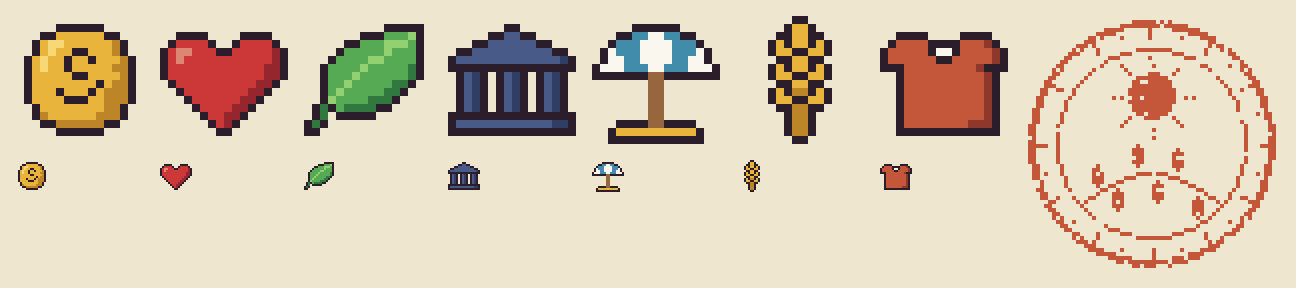
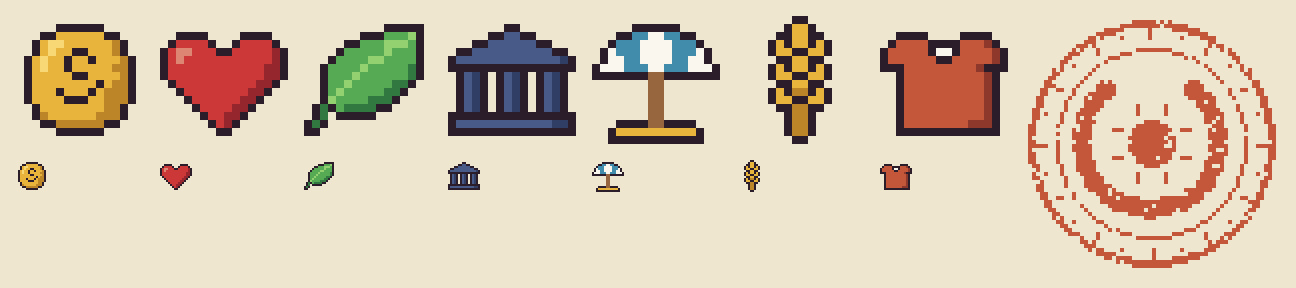
Add character opinions, sound, a clearer seal and the playtest guide
The report now ends with a line from each of the six characters, chosen by
the number that character cares about. Five sound effects come from the
browser's synthesizer; the mute button is remembered. The seal is a sun in
an olive wreath, the fired Minister is twice the size and the sheep has
wool. The last three true-story sources are filled in.

Changed region(s): [[0.8025, 0.2188, 0.9568, 0.7812], [0.8642, 0.9062, 0.9259, 0.9375]]

diff --git a/game.js b/game.js
@@ -1,7 +1,8 @@
 // Ministry of Sustainability: the screen. The rules live in engine.js, the content in events.json.
 
 import { TURNS, METERS, SECTORS, CRISIS_BELOW, CRISIS_COST, newTerm, choose, endTurn, canAfford,
-  eventText, portraitFor, grade, overallGrade, reportLines, termTitle } from "./engine.js";
+  eventText, portraitFor, grade, overallGrade, reportLines, opinions, termTitle } from "./engine.js";
+import { play, isMuted, toggleMute } from "./sound.js";
 
 const SEASONS = ["Spring", "Summer", "Autumn", "Winter"];
 const LABELS = { ...METERS, ...SECTORS };
@@ -52,7 +53,10 @@ function header() {
         <h1>Ministry of Sustainability</h1>
         <p class="when">${esc(country)} · Year ${year}, ${SEASONS[(state.turn - 1) % 4]}</p>
       </div>
-      <button class="help" data-help aria-label="How to play">?</button>
+      <span class="top__buttons">
+        <button class="help ${isMuted() ? "is-off" : ""}" data-mute aria-label="Sound" aria-pressed="${!isMuted()}">♪</button>
+        <button class="help" data-help aria-label="How to play">?</button>
+      </span>
       <div class="seasons" role="img" aria-label="Season ${state.turn} of ${TURNS}">${seasons}</div>
     </header>
     <section class="meters" aria-label="Meters">${Object.keys(METERS).map(meter).join("")}</section>
@@ -131,6 +135,14 @@ function reportCard() {
       <p class="overall">Overall grade <span class="grade grade--big">${overallGrade(state)}</span></p>
       ${sectors}
       ${looksGood}
+      <section class="sector">
+        <h3>What they say</h3>
+        ${opinions(state).map(({ who, text }) => `
+        <figure class="quote">
+          <img src="assets/portraits/${portraitFor(state, who)}.png" width="64" height="64" alt="">
+          <figcaption><b>${personName(who)}</b>${esc(text)}</figcaption>
+        </figure>`).join("")}
+      </section>
       <button class="button" data-restart>Run for another term</button>
       <img class="stamp" src="assets/ui/seal.png" width="64" height="64" alt="">
     </article>`;
@@ -188,9 +200,14 @@ function render() {
 app.addEventListener("click", (e) => {
   const button = e.target.closest("button");
   if (!button || button.disabled) return;
-  if (button.dataset.option) choose(state, state.event.options[Number(button.dataset.option)]);
-  else if ("next" in button.dataset) endTurn(state);
-  else if ("restart" in button.dataset) state = newTerm(data);
+  if (button.dataset.option) {
+    choose(state, state.event.options[Number(button.dataset.option)]);
+    play("stamp");
+  } else if ("next" in button.dataset) {
+    endTurn(state);
+    play(!state.ending ? "page" : state.ending.lost ? "lose" : "win");
+  } else if ("restart" in button.dataset) state = newTerm(data);
+  else if ("mute" in button.dataset) toggleMute();
   else if ("help" in button.dataset) help = true;
   else if ("closeHelp" in button.dataset) help = false;
   else return;

diff --git a/sound.js b/sound.js
@@ -1,0 +1,43 @@
+// Ministry of Sustainability: sound. Every effect is a few notes from the browser's own
+// synthesizer, so there are no audio files to load.
+
+const KEY = "ministry-muted";
+let context;   // made on the first sound, because browsers only allow audio after a click
+let muted = false;
+try { muted = localStorage.getItem(KEY) === "1"; } catch { /* private window: start with sound on */ }
+
+// Each effect is a list of notes: [frequency in Hz, start in seconds, length in seconds, wave shape].
+const EFFECTS = {
+  stamp: [[110, 0, 0.09, "square"], [70, 0.03, 0.14, "triangle"]],       // a decision is made
+  page: [[520, 0, 0.04, "square"], [660, 0.05, 0.05, "square"]],         // next season
+  win: [[392, 0, 0.12, "square"], [494, 0.12, 0.12, "square"], [587, 0.24, 0.12, "square"], [784, 0.36, 0.3, "square"]],
+  lose: [[330, 0, 0.18, "square"], [262, 0.18, 0.18, "square"], [196, 0.36, 0.45, "sawtooth"]],
+};
+
+export function play(name) {
+  if (muted) return;
+  try {
+    context ??= new AudioContext();
+    if (context.state === "suspended") context.resume();
+    const now = context.currentTime;
+    for (const [frequency, start, length, type] of EFFECTS[name]) {
+      const tone = context.createOscillator();
+      const volume = context.createGain();
+      tone.type = type;
+      tone.frequency.value = frequency;
+      volume.gain.setValueAtTime(0.08, now + start);
+      volume.gain.exponentialRampToValueAtTime(0.001, now + start + length);
+      tone.connect(volume).connect(context.destination);
+      tone.start(now + start);
+      tone.stop(now + start + length);
+    }
+  } catch { /* no audio on this device: the game is fine without it */ }
+}
+
+export const isMuted = () => muted;
+
+export function toggleMute() {
+  muted = !muted;
+  try { localStorage.setItem(KEY, muted ? "1" : "0"); } catch { /* the choice just will not be remembered */ }
+  if (!muted) play("page");
+}

diff --git a/style.css b/style.css
@@ -52,12 +52,14 @@ h1, h2, h3, .memo, .meter__name, .button, .grade, kbd, figcaption, label { font-
 .top h1 { margin: 0; font-size: 23px; line-height: 1; letter-spacing: .02em; }
 .when { margin: 0; color: var(--muted); font-size: 19px; line-height: 1.1; overflow-wrap: anywhere; }
 .help {
-  width: 44px; height: 44px;
+  width: 40px; height: 44px;
   background: var(--card); color: var(--ink);
   border: 2px solid var(--ink); border-radius: 0; box-shadow: 3px 3px 0 var(--ink);
   font: 26px var(--head); cursor: pointer; touch-action: manipulation;
 }
 .help:active { transform: translate(3px, 3px); box-shadow: none; }
+.help.is-off { color: var(--rule); text-decoration: line-through; }
+.top__buttons { display: flex; gap: 8px; }
 
 /* sixteen seasons, grouped in years */
 .seasons { grid-column: 1 / -1; display: grid; grid-template-columns: repeat(16, 1fr); gap: 2px; margin-top: 8px; }
@@ -183,6 +185,10 @@ h2 { margin: 0; font-size: 32px; line-height: .95; text-wrap: balance; overflow-
 .sector h3 { display: flex; align-items: center; margin: 0 0 6px; font-size: 24px; line-height: 1; }
 .sector h3 .grade { margin-left: auto; }
 .sector p { margin: 0 0 6px; overflow-wrap: anywhere; }
+.quote { display: flex; gap: 10px; align-items: flex-start; margin: 0 0 10px; }
+.quote img { flex: none; width: 48px; height: 48px; background: var(--paper); border: 2px solid var(--ink); }
+.quote figcaption { font-family: var(--body); line-height: 1.15; }
+.quote b { display: block; font: 16px/1.2 var(--head); font-weight: 400; color: var(--muted); }
 
 /* ---- first screen and rules ---- */
 .card--intro { padding-top: 16px; text-align: center; }

diff --git a/engine.js b/engine.js
@@ -166,6 +166,12 @@ export function reportLines(term, sector) {
   return (term.data.report_lines ?? []).filter((l) => l.sector === sector && term.flags.has(l.flag)).map((l) => l.text);
 }
 
+/** What each recurring character says at the end: each one judges a single number ("opinions"). */
+export function opinions(term) {
+  return (term.data.opinions ?? []).map(({ who, meter, lines }) =>
+    ({ who, text: lines.find(([least]) => term.values[meter] >= least)[1] }));
+}
+
 /** Only a term that was not lost earns a title. */
 export function termTitle(term) {
   if (!term.ending || term.ending.lost) return null;

diff --git a/tools/scenes.py b/tools/scenes.py
@@ -11,16 +11,17 @@ SCENES = ASSETS / "scenes"
 W, H = 160, 80
 
 
-def person(c, x, y, coat="navy", facing=1):
-    """A small figure about 24 pixels tall, feet at (x, y)."""
-    c.rect((x - 3, y - 9, x - 1, y - 1), "char")          # legs
-    c.rect((x + 1, y - 9, x + 3, y - 1), "char")
-    c.rect((x - 4, y - 1, x - 1, y), "line"); c.rect((x + 1, y - 1, x + 4, y), "line")
-    c.rect((x - 4, y - 18, x + 4, y - 9), coat)            # coat
-    c.col(x + 4 * facing, y - 18, y - 9, "navy_d")
-    c.ell((x - 3, y - 25, x + 3, y - 19), "skin")          # head
-    c.row(y - 25, x - 2, x + 2, "hair_d"); c.row(y - 24, x - 3, x + 3, "hair_d")
-    c.px(x + 1 * facing, y - 22, "line")
+def person(c, x, y, k=2, coat="navy"):
+    """A figure walking right, feet at (x, y), drawn k times larger than its 25-pixel sketch."""
+    def box(x0, y0, x1, y1, colour):
+        c.rect((x + x0 * k, y + y0 * k, x + x1 * k + k - 1, y + y1 * k + k - 1), colour)
+    box(-3, -9, -1, -1, "char"); box(1, -9, 3, -1, "char")          # legs
+    box(-4, -1, -1, -1, "line"); box(1, -1, 4, -1, "line")          # shoes
+    box(-4, -18, 4, -10, coat); box(4, -18, 4, -10, "navy_d")       # coat
+    box(-1, -18, 0, -15, "white"); box(-1, -16, -1, -12, "red")     # shirt and tie
+    box(-3, -25, 3, -19, "skin"); box(3, -24, 3, -20, "skin2")      # head
+    box(-3, -26, 3, -25, "hair_d"); box(-4, -25, -3, -22, "hair_d") # hair
+    box(1, -23, 1, -23, "line"); box(1, -21, 2, -21, "skin3")       # eye, and a mouth that has given up
 
 
 # ---- Approval hits 0: fired ---------------------------------------------------------
@@ -41,11 +42,12 @@ def fired():
     c.rect((30, 60, 61, 63), "white"); c.rect((26, 63, 65, 66), "cream")  # steps
     c.col(92, 6, 62, "line")
     # the former Minister, with a box of belongings
-    person(c, 118, 70)
-    c.rect((122, 52, 134, 60), "wood"); c.rect((122, 52, 134, 53), "wood_d")
-    c.rect((121, 55, 123, 57), "skin"); c.px(128, 56, "wood_d")
-    c.poly([(126, 52), (126, 46), (129, 43), (130, 47), (129, 52)], "green")  # the office plant
-    c.rect((131, 48, 133, 52), "white")
+    person(c, 116, 76)
+    c.rect((126, 44, 146, 58), "wood"); c.rect((126, 44, 146, 46), "wood_d"); c.rect((135, 50, 137, 52), "wood_d")
+    c.rect((123, 48, 127, 52), "skin")                                          # the hand that carries it
+    c.poly([(132, 44), (131, 34), (136, 28), (139, 35), (137, 44)], "green")    # the office plant
+    c.line([(135, 44), (135, 32)], "green_d")
+    c.rect((140, 38, 144, 44), "white"); c.px(142, 40, "hair_d")                # one framed certificate
     # papers on the wind
     for x, y in ((70, 40), (84, 50), (100, 34), (146, 30)):
         c.rect((x, y, x + 4, y + 3), "white"); c.px(x + 1, y + 1, "hair_d"); c.px(x + 3, y + 2, "hair_d")
@@ -191,6 +193,8 @@ def cover():
     for cx, cy in ((200, 150), (214, 134), (236, 126), (262, 124), (284, 134), (298, 152), (300, 174), (290, 192), (196, 174)):
         c.ell((cx - 9, cy - 9, cx + 9, cy + 9), "white")
     c.recolor("white", "cream", lambda x, y: x >= 180 and y >= 120 and (x + y >= 474 or y >= 192))
+    for cx, cy in ((262, 150), (280, 162), (268, 176), (286, 182), (252, 134), (274, 138), (198, 168), (290, 148), (258, 192)):
+        c.d.arc((cx - 4, cy - 4, cx + 4, cy + 4), 200, 20, fill=C["cream_d"])   # curls of wool
     c.ell((206, 140, 250, 192), "char"); c.ell((210, 144, 246, 188), "char_l")       # face
     c.poly([(204, 150), (190, 144), (196, 160)], "char"); c.poly([(252, 150), (266, 144), (260, 160)], "char")  # ears
     for cx, cy in ((216, 138), (228, 132), (240, 138)):                             # woolly fringe

diff --git a/tools/ui_art.py b/tools/ui_art.py
@@ -158,7 +158,7 @@ def icon(name):
 
 
 def seal():
-    """A round rubber stamp: sun over an olive branch, in one worn colour."""
+    """A round rubber stamp: a sun inside an olive wreath, in one worn colour."""
     c = Canvas(64, 64)
     ink = "scarf"
     for box in ((1, 1, 62, 62), (2, 2, 61, 61), (8, 8, 55, 55)):
@@ -169,21 +169,16 @@ def seal():
         for r in (26.5, 27.5, 28.5) if i % 2 == 0 else (27.5,):
             c.px(round(31.5 + r * math.cos(a)), round(31.5 + r * math.sin(a)), ink)
     # sun
-    c.d.ellipse((26, 14, 37, 25), fill=C[ink])
+    c.d.ellipse((26, 26, 37, 37), fill=C[ink])
     for i in range(8):
-        a = math.radians(i * 45)
+        a = math.radians(i * 45 + 22.5)
         for r in (8, 9, 10):
-            c.px(round(31.5 + r * math.cos(a)), round(19.5 + r * math.sin(a)), ink)
-    # olive branch: a curved stem with leaves alternating above and below it
-    stem = [(15 + i, round(46 - 7 * math.sin(i / 33 * math.pi))) for i in range(34)]
-    for x, y in stem:
-        c.px(x, y, ink)
-    for n, i in enumerate(range(3, 33, 5)):
-        x, y = stem[i]
-        if n % 2 == 0:
-            c.d.ellipse((x - 1, y - 7, x + 1, y - 2), fill=C[ink])
-        else:
-            c.d.ellipse((x - 1, y + 2, x + 1, y + 7), fill=C[ink])
+            c.px(round(31.5 + r * math.cos(a)), round(31.5 + r * math.sin(a)), ink)
+    # olive wreath: chunky leaves around the inner ring, open at the top
+    for deg in range(-50, 231, 14):
+        a = math.radians(deg)
+        x, y = 31.5 + 17 * math.cos(a), 31.5 + 17 * math.sin(a)
+        c.d.ellipse((x - 2, y - 2, x + 2, y + 2), fill=C[ink])
     # wear: a rubber stamp never prints every pixel
     rng = random.Random(7)
     for y in range(64):

diff --git a/README.md b/README.md
@@ -25,7 +25,7 @@ Then open http://localhost:8123.
 - `events.json` holds every event, option, effect and report line. Adding an event needs no code.
 - `engine.js` is the rules: meters, event selection, flags, scheduled follow-ups, sector crises, the
   final report and its titles. It has no screen attached.
-- `game.js` draws a term in the browser.
+- `game.js` draws a term in the browser; `sound.js` makes the sound effects without any audio files.
 - `tools/balance.mjs` plays thousands of terms with simple strategies and reports how they end
   (`node tools/balance.mjs`). It is how the numbers were tuned.
 - `TASARIM.md` is the design document (rules, event list, build order).
@@ -39,7 +39,7 @@ small "True story" stamp gives only a year and what happened. The sources are he
 
 | Event | Note in the game | Source |
 |---|---|---|
-| Special Delivery | 2024: farmers dumped manure outside government buildings in several countries. | To be added |
+| Special Delivery | 2024: farmers dumped manure outside government buildings in several countries. | [Al Jazeera, 2024](https://www.aljazeera.com/gallery/2024/3/27/angry-farmers-block-brussels-to-protest-eu-policies-cheap-ukraine-imports) |
 | The Olive Plague | 2013: a bacterium began killing one region's olive trees. Millions are gone. | [NPR, 2020](https://www.npr.org/2020/05/03/849551027/southern-europe-could-lose-22-billion-fighting-deadly-olive-tree-disease) |
 | Where Did the Bees Go? | 2018: three pesticides were banned from outdoor use across a continent to protect bees. | [Euronews, 2018](https://www.euronews.com/2018/04/27/eu-nations-back-ban-on-insecticides-to-protect-bees) |
 | The Hazelnut Empire | today: one country grows most of the world's hazelnuts, and one company is its biggest buyer. | [FreshPlaza](https://www.freshplaza.com/europe/article/9792232/turkish-hazelnut-production-drops-sending-prices-soaring/), [T-Vine](https://t-vine.com/ferrero-single-biggest-buyer-of-turkish-hazelnuts-while-germany-biggest-market-in-2017) |
@@ -52,8 +52,8 @@ small "True story" stamp gives only a year and what happened. The sources are he
 | Umbrella Wars | today: in one country, beach concessions were renewed for decades without ever being put up for competition. | [Euronews, 2023](https://www.euronews.com/my-europe/2023/04/20/italian-beach-space-must-be-open-to-competition-ecj-ruling) |
 | Pay to Enter | 2024: a city began charging day visitors a fee to enter. | [NPR, 2024](https://www.npr.org/2024/04/25/1247162570/venice-entry-fee-day-trippers-tourists) |
 | All Inclusive, Nothing Local (towel option) | 1986: the word "greenwashing" was invented to describe hotel towel cards. | [NRDC](https://www.nrdc.org/stories/what-greenwashing) |
-| The Documentary | today: campaigners ask tourists to boycott a group of islands over a traditional hunt. | To be added |
-| Wool-Free Wool | today: washing synthetic clothes is one of the main sources of microplastics in the sea. | To be added |
+| The Documentary | today: campaigners ask tourists to boycott a group of islands over a traditional hunt. | [The Inertia](https://www.theinertia.com/environment/cruise-lines-protest-faroe-islands-whale-hunt/) |
+| Wool-Free Wool | today: washing synthetic clothes is one of the main sources of microplastics in the sea. | [IUCN, 2017](https://iucn.org/news/secretariat/201702/invisible-plastic-particles-textiles-and-tyres-major-source-ocean-pollution-–-iucn-study) |
 | The Green Gala | 2021: a study found that six in ten green claims by big fashion brands were misleading. | [Eco-Business](https://www.eco-business.com/zh-hans/news/almost-60-per-cent-of-sustainability-claims-by-fashion-giants-are-greenwash/) |
 | The River Is Blue Today | today: near some textile towns, the river changes colour with whatever dye was used that week. | [The Daily Star](https://www.thedailystar.net/backpage/news/louhajang-river-palette-pollution-1738819) |
 | Mount Textile | 2021: a dump of unsold clothes in a desert was reported to be growing by 39,000 tonnes a year. | [Al Jazeera, 2021](https://www.aljazeera.com/gallery/2021/11/8/chiles-desert-dumping-ground-for-fast-fashion-leftovers) |

diff --git a/TEST_REHBERI.md b/TEST_REHBERI.md
@@ -1,0 +1,62 @@
+# Oyun Testi Rehberi
+
+Amaç: oyunun gerçek insanlarla nasıl çalıştığını görmek. Simülasyon sayıların dengeli olduğunu
+söylüyor; eğlenceli ve anlaşılır olup olmadığını yalnızca oyuncular söyleyebilir.
+
+Hedef: **5–10 kişi**, kişi başı yaklaşık **15 dakika**. İngilizce okuyabilen herkes olur; oyun
+oynamayan birkaç kişi de olsun.
+
+## Oturumdan önce
+
+- Oyunu kendi telefonlarında ya da senin bilgisayarında açtır.
+- Tek cümle söyle: "Bir oyun yapıyorum, bir tur oynar mısın? Sesli düşünürsen sevinirim."
+- Oyunu **anlatma**. Kuralları ekrandan okusunlar; takıldıkları yer bulgudur.
+
+## Oturum sırasında
+
+Sen yalnızca izle ve not al. Yardım isterlerse "Sence ne yapmalısın?" diye sor.
+
+| Bakılacak şey | Not |
+|---|---|
+| Kuralları okudu mu, atladı mı? | |
+| İlk olayda ne kadar düşündü? | |
+| Hangi olayda güldü ya da tepki verdi? | |
+| Nerede takıldı ya da yanlış anladı? | |
+| Göstergelere baktı mı? Krizdeki sektörü fark etti mi? | |
+| "True story" notlarını okudu mu? | |
+| Dönem nasıl bitti? (tamamladı / hangi göstergeden kaybetti) | |
+| Aldığı unvan | |
+| Kaç dakika sürdü? | |
+| Kendiliğinden ikinci kez oynadı mı? | |
+
+## Oturumdan sonra sorulacaklar
+
+1. Bu oyun sence ne hakkındaydı?
+2. En çok hangi olayı hatırlıyorsun? Neden?
+3. Verdiğin kararlardan hangisine pişman oldun?
+4. Anlamadığın bir şey oldu mu?
+5. Bir seçeneğin "doğru cevap" olduğunu hissettiğin oldu mu?
+6. Seni şaşırtan bir "True story" notu var mıydı?
+7. Bir arkadaşına önerir misin? Nasıl anlatırdın?
+8. Bir şeyi değiştirebilseydin neyi değiştirirdin?
+
+## Sonuçları toplama
+
+Her oyuncu için bir satır:
+
+| Oyuncu | Oyun deneyimi | Süre | Sonuç | Unvan | Takıldığı yer | Hatırladığı olay | Önerir mi |
+|---|---|---|---|---|---|---|---|
+| 1 | | | | | | | |
+| 2 | | | | | | | |
+
+## Neye bakacaksın
+
+- **Aynı yerde üç kişi takılıyorsa** o bir tasarım sorunudur, oyuncunun hatası değil.
+- **Kimse hatırlamadığı olay** büyük olasılıkla zayıf yazılmıştır.
+- **Herkes aynı seçeneği seçiyorsa** o olayda gerçek bir ikilem yoktur.
+- **Süre 20 dakikayı geçiyorsa** metinler uzun demektir.
+- Simülasyonda rastgele oyun dönemlerin %32'sini kaybediyor. Gerçek oyuncular bunun çok altında
+  ya da çok üstünde kaybediyorsa sayılar yeniden ayarlanmalı.
+
+Bulguları kısa bir rapora çevir: ne gördün, neyi değiştirdin, neyi değiştirmedin ve neden. Bu
+rapor portfolyonun en değerli parçalarından biridir.

diff --git a/TASARIM.md b/TASARIM.md
@@ -61,7 +61,9 @@ pick the options the cabinet already likes.
 
 - A grade per sector (Tourism, Agriculture, Fashion) and overall.
 - A short funny paragraph per sector based on the flags collected.
-- What each recurring character thinks of you.
+- What each recurring character thinks of you. Each one judges a single number: the Prime
+  Minister your Political capital, Grandma Rose your Approval, Lily Carter the Environment, and
+  Margaret Hale, Julian Frost and Walter Briggs their own sector. Three possible lines each.
 
 ### What success means
 
@@ -233,7 +235,8 @@ The two tools do different jobs:
 - **Flags** are memory: they open events in the random pool, change an event's opening sentence
   and decide the text of the final report. An option only sets a flag that something reads.
 
-The file also has three top-level fields: `portrait_moods`, which swaps a character's portrait
+The file also has four top-level fields: `opinions`, the lines each character can say in the
+final report (`who`, `meter`, and `lines` as pairs of a minimum value and a sentence, highest first); `portrait_moods`, which swaps a character's portrait
 while a meter is below a number (the Prime Minister looks worried while Approval is under 50);
 `country`, the name the first screen suggests when the player has not typed one; and
 `report_lines`, the flag-based sentences of the final report (`flag`, `sector`, `text`).
@@ -359,12 +362,13 @@ real cases.
 3. **Balance script.** *Done:* `tools/balance.mjs` plays thousands of terms and reports how often
    each lose condition happens and where the meters end. The numbers meet the targets in section 4.
    Run it again after any change to effects.
-4. **Playtest with 5–10 people**, short written report: where they got stuck, which events they
+4. **Playtest with 5–10 people** (how to run it: `TEST_REHBERI.md`), short written report: where they got stuck, which events they
    remembered, how long a term took.
 5. **Look and polish, then release.** *Started:* icons, seal, memo layout, first screen with the
    cast, season track, danger and crisis warnings, keyboard shortcuts (A/B/C). The cover (`art/cover.png`,
-   630×500) and a picture for each of the three lose screens are drawn by `tools/scenes.py`. Still
-   open: sound.
+   630×500) and a picture for each of the three lose screens are drawn by `tools/scenes.py`. Sound:
+   five short effects made by the browser's synthesizer (`sound.js`), with a mute button that is
+   remembered.
 
 ### Not in the first release
 
